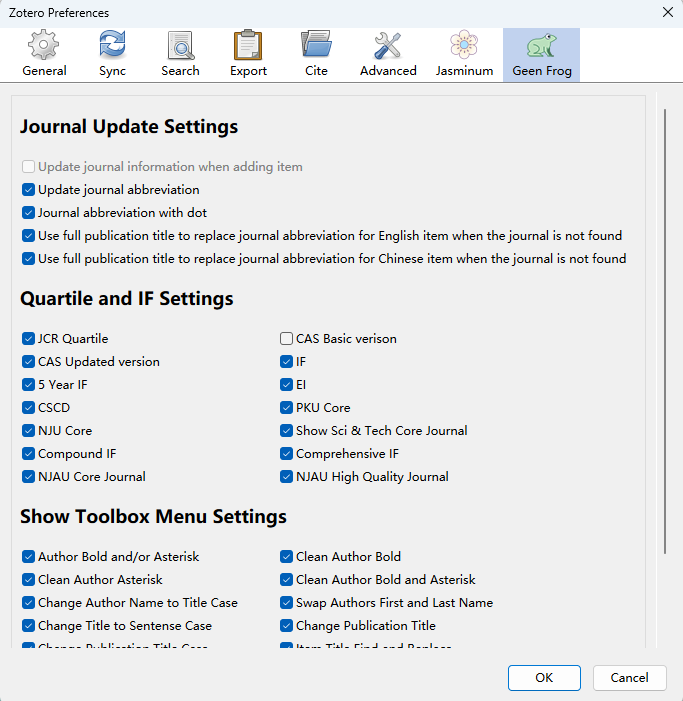
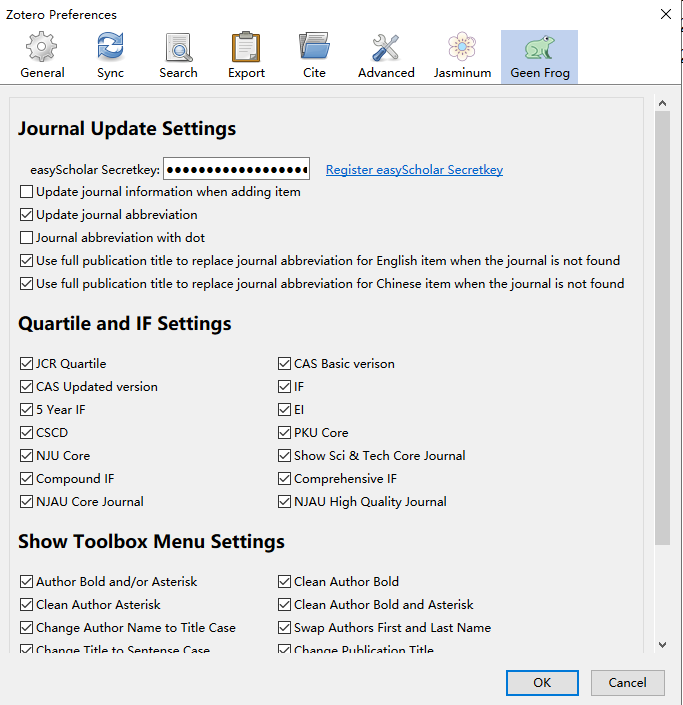
更新使用说明

diff --git a/README.md b/README.md
@@ -9,7 +9,7 @@
 
 ![右键](./img/contextmenu.png "右键菜单显示")
 
-在`Edit`-`Preferences`-`Green Frog`中设置：
+在`Edit`-`Preferences`-`Green Frog`中设置要获取的内容和显示的工具箱菜单：
 
 ![设置](./img/preferences.png "插件设置")
 
@@ -33,7 +33,7 @@
 
 1. 从<https://github.com/redleafnew/zotero-updateifsE/releases/latest/download/greenfrog.xpi>下载xpi，然后在Zotero或JurisM中通过Tools-Addons-Install Add-on From File安装。
 
-2. 到[easyScholar](https://easyscholar.cc/)注册一个账号，并登录账号，点击注册的用户名-“用户信息”-“开放接口”，复制密钥。在Zotero中点击Edit-Preferences-Green Frog，粘贴到easyScholar密钥后的文本框内。
+2. 到[easyScholar](https://easyscholar.cc/)注册一个账号，并登录账号，点击注册的用户名-`用户信息`-`开放接口`，复制密钥。在Zotero中点击`Edit`-`Preferences`-`Green Frog`，粘贴到easyScholar密钥后的文本框内。
 
 # 感谢
 
